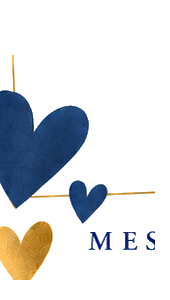
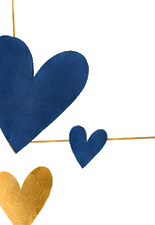
Add files via upload

diff --git a/koephoto-preview-v37.html b/koephoto-preview-v37.html
@@ -1,0 +1,87 @@
+<!doctype html>
+<html lang="ja"><head><meta charset="utf-8"><meta name="viewport" content="width=device-width,initial-scale=1">
+<title>コエフォト｜Classic Birthday プレビュー v37</title>
+<style>
+*{box-sizing:border-box}body{margin:0;background:#f5f1ea;color:#4e4339;font-family:-apple-system,BlinkMacSystemFont,"Hiragino Sans","Yu Gothic",sans-serif}
+.wrap{max-width:760px;margin:auto;padding:18px 14px 60px}.top{text-align:center}.top h1{font-size:21px;margin:7px}.top p{font-size:12px;color:#827568}
+.badge{display:inline-block;background:#eee4d6;padding:4px 8px;border-radius:999px;font-size:10px}
+.tabs{display:grid;grid-template-columns:1fr 1fr;gap:8px;margin:18px 0}.tabs button{padding:12px;border:1px solid #cbb79c;background:#fffaf2;border-radius:12px;color:#655648;font-weight:700}.tabs button.on{background:#9f8064;color:white}
+.pane{display:none}.pane.on{display:block}.caption{text-align:center;font-size:12px;color:#817466;margin:8px 0 12px}
+.voiceFrameWrap{background:#0b1f3a;border-radius:16px;overflow:hidden}
+iframe{display:block;width:100%;height:980px;border:0;background:#091a33}
+.canvasWrap{background:#e9e4db;border-radius:16px;padding:10px;overflow:auto}canvas{display:block;width:100%;height:auto;max-width:600px;margin:auto;background:white}
+.actions{display:grid;grid-template-columns:1fr 1fr;gap:9px;margin-top:18px}.actions button{padding:14px;border-radius:13px;border:1px solid #bca68d;background:#fffaf2;color:#655648;font-weight:700}.actions .buy{background:#9f8064;color:#fff;border:0}.price{text-align:center;font-size:12px;color:#817466;margin-top:10px}
+@media(max-width:480px){iframe{height:860px}}
+</style></head><body><main class="wrap">
+<div class="top"><span class="badge">Classic Birthday</span><h1>2つのプレビューを確認</h1><p>ボイスページとメッセージカードは同じ入力内容から作成されます。</p></div>
+<div class="tabs"><button id="tv" class="on">ボイスページ</button><button id="tm">メッセージカード</button></div>
+<section id="pv" class="pane on"><div class="caption">受け取った人がスマホで見るページ</div><div class="voiceFrameWrap"><iframe src="classic-birthday-voice-v13-preview.html" title="Classic Birthday ボイスページ"></iframe></div></section>
+<section id="pm" class="pane"><div class="caption">写真・メッセージ・QRを載せて贈るカード（プレビューではQR枠のみ）</div><div class="canvasWrap"><canvas id="card" width="1060" height="1484"></canvas></div></section>
+<div class="actions"><button onclick="history.back()">入力を修正</button><button class="buy" onclick="alert('決済は次の実装段階です。完成版は480円（税込）です。')">完成版へ　480円</button></div>
+<div class="price">閲覧・ダウンロード期限：購入日から1年間</div>
+</main>
+<script>
+const $=id=>document.getElementById(id);
+$('tv').onclick=()=>{$('tv').classList.add('on');$('tm').classList.remove('on');$('pv').classList.add('on');$('pm').classList.remove('on')};
+$('tm').onclick=()=>{$('tm').classList.add('on');$('tv').classList.remove('on');$('pm').classList.add('on');$('pv').classList.remove('on')};
+function db(){return new Promise((ok,ng)=>{const r=indexedDB.open('koephoto-preview',2);r.onsuccess=()=>ok(r.result);r.onerror=()=>ng(r.error)})}
+async function get(k){const x=await db();const v=await new Promise((ok,ng)=>{const t=x.transaction('draft');const r=t.objectStore('draft').get(k);r.onsuccess=()=>ok(r.result);r.onerror=()=>ng(r.error)});x.close();return v}
+function wrap(ctx,text,maxWidth){let lines=[],cur='';for(const ch of text){if(ctx.measureText(cur+ch).width<=maxWidth)cur+=ch;else{lines.push(cur);cur=ch}}if(cur)lines.push(cur);return lines}
+(async()=>{
+ const draft=JSON.parse(sessionStorage.getItem('koephoto-draft')||'{}');if(!draft.message){alert('作成データがありません。作成画面に戻ります。');location.href='koephoto-create-v37.html';return}
+ const photo=await get('photo');const pu=URL.createObjectURL(photo);
+ const c=$('card'),ctx=c.getContext('2d');const base=new Image();base.src='classic-birthday-message.png';await base.decode();ctx.drawImage(base,0,0,c.width,c.height);
+ const img=new Image();img.src=pu;await img.decode();
+ // Classic Birthdayの実際の写真枠は長方形ではなく、わずかに傾いた四角形。
+ // 枠の内側4点にクリップして写真を配置する（生成AIなし・座標固定）。
+ // 写真はClassic Birthdayの実際の傾いた写真枠いっぱいに配置する。
+ // その後、固定テンプレートのリボン/花束/ハートだけを透明PNGで最前面に戻す。
+ const p1={x:39,y:283}, p2={x:998,y:249}, p3={x:1021,y:882}, p4={x:61,y:916};
+ const minX=Math.min(p1.x,p2.x,p3.x,p4.x), maxX=Math.max(p1.x,p2.x,p3.x,p4.x);
+ const minY=Math.min(p1.y,p2.y,p3.y,p4.y), maxY=Math.max(p1.y,p2.y,p3.y,p4.y);
+ const fw=maxX-minX, fh=maxY-minY, ir=img.width/img.height, fr=fw/fh;
+ let sx=0,sy=0,sw=img.width,sh=img.height;
+ if(ir>fr){sw=img.height*fr;sx=(img.width-sw)/2}else{sh=img.width/fr;sy=(img.height-sh)/2}
+ ctx.save();
+ ctx.beginPath();ctx.moveTo(p1.x,p1.y);ctx.lineTo(p2.x,p2.y);ctx.lineTo(p3.x,p3.y);ctx.lineTo(p4.x,p4.y);ctx.closePath();ctx.clip();
+ ctx.drawImage(img,sx,sy,sw,sh,minX,minY,fw,fh);
+ ctx.restore();
+ const decor=new Image();decor.src='classic-birthday-decor-overlay.png';await decor.decode();ctx.drawImage(decor,0,0,c.width,c.height);
+ ctx.fillStyle='#2b3c50';ctx.textBaseline='alphabetic';
+ const recipientText=draft.recipient;
+ const rn=recipientText.length;
+ let recipientSize = rn<=5 ? 36 : rn<=8 ? 33 : rn<=12 ? 29 : rn<=16 ? 25 : 22;
+ ctx.font='300 '+recipientSize+'px "Hiragino Sans","Yu Gothic",sans-serif';
+ while(recipientSize>20 && ctx.measureText(recipientText).width>485){
+   recipientSize--;
+   ctx.font='300 '+recipientSize+'px "Hiragino Sans","Yu Gothic",sans-serif';
+ }
+ ctx.fillText(recipientText,102,1040);
+ const rules=[1094,1144,1193,1243],maxw=485;
+ // 文字数に応じて初期フォントサイズを自動調整。短文ほど大きく、長文ほど小さく。
+ const n=draft.message.length;
+ let size = n<=25 ? 26 : n<=45 ? 24 : n<=65 ? 22 : n<=82 ? 20 : 18;
+ let lines=[];
+ while(size>=16){
+   ctx.font='300 '+size+'px "Hiragino Sans","Yu Gothic",sans-serif';
+   lines=wrap(ctx,draft.message,maxw);
+   if(lines.length<=4)break;
+   size--;
+ }
+ // 行数が少ない場合は使用する罫線の上から順に配置
+ lines.slice(0,4).forEach((line,i)=>ctx.fillText(line,102,rules[i]-5));
+ ctx.fillStyle='#9a793f';
+ const senderText=draft.sender;
+ const sn=senderText.length;
+ let senderSize = sn<=6 ? 28 : sn<=10 ? 26 : sn<=12 ? 23 : 21;
+ const senderMaxWidth=330;
+ ctx.font='500 '+senderSize+'px "Hiragino Sans","Yu Gothic",sans-serif';
+ while(senderSize>18 && ctx.measureText(senderText).width>senderMaxWidth){
+   senderSize--;
+   ctx.font='500 '+senderSize+'px "Hiragino Sans","Yu Gothic",sans-serif';
+ }
+ ctx.textAlign='center';
+ ctx.fillText(senderText,(221+562)/2,1307);
+ ctx.textAlign='left';
+})();
+</script></body></html>

diff --git a/koephoto-create-v37.html b/koephoto-create-v37.html
@@ -1,0 +1,59 @@
+<!doctype html>
+<html lang="ja"><head><meta charset="utf-8"><meta name="viewport" content="width=device-width,initial-scale=1">
+<title>コエフォト｜作成テスト v37</title>
+<style>
+*{box-sizing:border-box} :root{--bg:#faf7f2;--ink:#5b4b3f;--muted:#8e8176;--line:#d8c7b5;--accent:#9d7f63}
+body{margin:0;background:var(--bg);color:var(--ink);font-family:-apple-system,BlinkMacSystemFont,"Hiragino Sans","Yu Gothic",sans-serif}
+.wrap{max-width:720px;margin:auto;padding:22px 16px 60px}.brand{font-weight:900;letter-spacing:.08em;font-size:24px}
+.hero{padding:36px 2px 22px;border-bottom:1px solid var(--line)}h1{font-size:34px;line-height:1.35;margin:10px 0}.hero em{font-style:normal;color:var(--accent)}
+.step{display:flex;gap:12px;padding:20px 0;border-bottom:1px solid #e3d7ca}.n{flex:none;width:30px;height:30px;border-radius:50%;display:grid;place-items:center;background:#b28f6e;color:#fff;font-size:12px;font-weight:800}.content{width:100%}.content b{display:block;margin-bottom:6px}.field-help{font-size:12px;color:var(--muted);margin:0 0 9px;line-height:1.5}
+input,textarea{width:100%;padding:13px 14px;border:1px solid #c7b5a4;border-radius:12px;background:#fffdf9;font:inherit;color:var(--ink)}textarea{min-height:105px;resize:vertical}.count{text-align:right;font-size:11px;color:var(--muted);margin-top:5px}
+.upload{display:block;padding:14px;text-align:center;border:1.5px solid #bda58d;background:#fffdf9;border-radius:13px}.upload input{display:none}
+#photoPreview{display:none;width:100%;margin-top:10px;border-radius:12px;max-height:320px;object-fit:cover}audio{display:none;width:100%;margin-top:10px}
+.consent{display:flex;gap:9px;font-size:12px;line-height:1.65;margin:20px 0;padding:13px;background:#f3ede5;border-radius:14px}.consent input{width:auto}
+button{width:100%;padding:16px;border:0;border-radius:14px;background:#9f8064;color:#fff;font-size:16px;font-weight:800}button:disabled{opacity:.4}.note{text-align:center;font-size:11px;color:var(--muted);margin-top:10px}
+.flow{text-align:center;font-size:11px;color:var(--muted);margin-bottom:12px}
+</style></head><body><main class="wrap">
+<div class="flow">1 作成　→　2 プレビュー　→　3 発行</div>
+<div class="brand">コエフォト</div>
+<section class="hero"><small>PHOTO × VOICE</small><h1>写真に、<em>声をのせて</em><br>贈ろう。</h1><p>カードを無料で作成・プレビューできます。</p></section>
+<form id="form">
+<div class="step"><div class="n">1</div><div class="content"><b>贈る相手の名前</b><div class="field-help">メッセージカードに表示されます</div><input id="recipient" maxlength="20" required placeholder="例：おばあちゃん"><div class="count"><span id="rc">0</span> / 20文字</div></div></div>
+<div class="step"><div class="n">2</div><div class="content"><b>メッセージ</b><textarea id="message" maxlength="100" required placeholder="例：いつもありがとう。これからも元気でいてね！"></textarea><div class="count"><span id="mc">0</span> / 100文字</div></div></div>
+<div class="step"><div class="n">3</div><div class="content"><b>送り主の名前</b><input id="sender" maxlength="15" required placeholder="例：さくら"><div class="count"><span id="sc">0</span> / 15文字</div></div></div>
+<div class="step"><div class="n">4</div><div class="content"><b>写真を選ぶ</b><label class="upload">＋ 写真を選ぶ<input id="photo" type="file" accept="image/*" required></label><img id="photoPreview"></div></div>
+<div class="step"><div class="n">5</div><div class="content"><b>声をのせる</b><label class="upload">♬ 音声を選ぶ<input id="audio" type="file" required></label><audio id="audioPreview" controls></audio></div></div>
+<label class="consent"><input id="consent" type="checkbox" required><span>写真・音声をカードの作成・プレビューのために利用することに同意します。また、使用に必要な許可を得ていることを確認済みです。</span></label>
+<button id="go" type="submit">2つのプレビューを確認</button>
+<div class="note">作成・プレビューは0円。完成版は480円（税込）です。</div>
+</form></main>
+<script>
+const $=id=>document.getElementById(id);
+[['recipient','rc'],['message','mc'],['sender','sc']].forEach(([a,b])=>$(a).addEventListener('input',()=>$(b).textContent=$(a).value.length));
+$('photo').addEventListener('change',()=>{const f=$('photo').files[0];if(f){$('photoPreview').src=URL.createObjectURL(f);$('photoPreview').style.display='block'}});
+$('audio').addEventListener('change',()=>{
+  const f=$('audio').files[0];
+  if(!f)return;
+  const name=(f.name||'').toLowerCase();
+  const type=(f.type||'').toLowerCase();
+  const okExt=/\.(m4a|mp3|aac|mp4|mpeg|wav)$/i.test(name);
+  const okType=type.startsWith('audio/') || type==='video/mp4' || type==='application/octet-stream' || type==='';
+  if(!(okExt||okType)){
+    alert('この音声形式は選択できません。m4a / mp3 / aac / mp4 形式をお使いください。');
+    $('audio').value='';
+    return;
+  }
+  $('audioPreview').src=URL.createObjectURL(f);
+  $('audioPreview').style.display='block';
+});
+function db(){return new Promise((ok,ng)=>{const r=indexedDB.open('koephoto-preview',2);r.onupgradeneeded=()=>{if(!r.result.objectStoreNames.contains('draft'))r.result.createObjectStore('draft')};r.onsuccess=()=>ok(r.result);r.onerror=()=>ng(r.error)})}
+async function put(k,v){const x=await db();await new Promise((ok,ng)=>{const t=x.transaction('draft','readwrite');t.objectStore('draft').put(v,k);t.oncomplete=ok;t.onerror=()=>ng(t.error)});x.close()}
+$('form').addEventListener('submit',async e=>{e.preventDefault();if(!e.currentTarget.reportValidity())return;const p=$('photo').files[0],a=$('audio').files[0];if(!p||!a)return;
+const an=(a.name||'').toLowerCase(), at=(a.type||'').toLowerCase();
+if(!(/\.(m4a|mp3|aac|mp4|mpeg|wav)$/i.test(an) || at.startsWith('audio/') || at==='video/mp4' || at==='application/octet-stream' || at==='')){
+  alert('音声は m4a / mp3 / aac / mp4 形式をお使いください。'); return;
+}
+sessionStorage.setItem('koephoto-draft',JSON.stringify({recipient:$('recipient').value.trim(),message:$('message').value.trim(),sender:$('sender').value.trim()}));
+await put('photo',p);await put('audio',a);location.href='koephoto-preview-v37.html';
+});
+</script></body></html>

diff --git a/classic-birthday-voice-v13-preview.html b/classic-birthday-voice-v13-preview.html
@@ -1,0 +1,93 @@
+<!doctype html>
+<html lang="ja"><head>
+<meta charset="utf-8"><meta name="viewport" content="width=device-width,initial-scale=1,viewport-fit=cover">
+<title>Happy Birthday｜コエフォト</title>
+<style>
+:root{--navy:#0b477d;--gold:#bb8e3c;--ivory:#faf6ed}
+*{box-sizing:border-box}
+html,body{margin:0;min-height:100%;font-family:-apple-system,BlinkMacSystemFont,"Hiragino Sans","Yu Gothic",sans-serif;background:#f5efe6}
+.web{min-height:100svh;padding:14px 8px 26px}
+.card{position:relative;width:min(600px,100%);aspect-ratio:2/3;margin:auto;overflow:hidden;background:var(--ivory);box-shadow:0 12px 32px #5b493329}
+.bg{position:absolute;z-index:1;inset:0;width:100%;height:100%;display:block;pointer-events:none}
+
+/* Photo is clipped to the inner gold quadrilateral, then rotated to match the frame angle. */
+.photo{
+ position:absolute;z-index:2;
+ left:7.35%;top:21.65%;width:87.2%;height:36.3%;
+ overflow:hidden;
+ clip-path:polygon(1.7% 5.8%,97.3% 2.3%,99.0% 94.0%,3.1% 97.2%);
+ background:#eee7dc
+}
+.photo img{
+ position:absolute;left:50%;top:50%;
+ width:104%;height:104%;
+ object-fit:cover;object-position:50% 50%;
+ transform:translate(-50%,-50%) rotate(-1.22deg) scale(1.015);
+ transform-origin:center center;
+ display:block
+}
+
+/* メッセージカードと同じ左下ハート。写真より前面に配置。 */
+.hearts{
+ position:absolute;z-index:6;
+ left:3.25%;top:50.0%;width:14.7%;
+ height:auto;display:block;pointer-events:none
+}
+
+/* Exact SAME artwork and relative position as the message card. */
+.flower{
+ position:absolute;z-index:7;
+ left:74.2%;top:16.1%;width:22.2%;
+ height:auto;display:block;pointer-events:none
+}
+
+.play{
+ position:absolute;z-index:8;left:10.8%;top:65.15%;width:12.8%;aspect-ratio:1;
+ border:0;border-radius:50%;background:var(--navy);
+ display:grid;place-items:center;padding:0;cursor:pointer;-webkit-tap-highlight-color:transparent
+}
+.playIcon{width:0;height:0;margin-left:6%;border-top:.95em solid transparent;border-bottom:.95em solid transparent;border-left:1.35em solid #fff}
+.play.playing .playIcon{width:1.15em;height:1.55em;margin-left:0;border:0;background:linear-gradient(to right,#fff 0 34%,transparent 34% 66%,#fff 66% 100%)}
+.track{position:absolute;z-index:9;left:29.45%;top:68.08%;width:38.35%;height:3px;border-radius:99px;overflow:hidden}
+.fill{width:0;height:100%;background:var(--navy)}
+.time{position:absolute;z-index:9;left:70.1%;top:66.30%;width:15.2%;height:4%;display:flex;align-items:center;justify-content:center;background:#fbf8f0;color:#8290a4;font-size:clamp(8px,2.1vw,14px);font-variant-numeric:tabular-nums}
+
+/* Gold underline in the fixed design is at y≈1242px. */
+.sender{
+ position:absolute;z-index:9;left:30.9%;top:78.75%;width:46.6%;height:1.9%;
+ display:flex;align-items:flex-end;justify-content:center;padding:0 2% 0;
+ color:#9a763b;font-size:clamp(12px,3.3vw,22px);font-weight:500;line-height:1;
+ white-space:nowrap;overflow:hidden
+}
+audio{display:none}
+.brand{width:min(600px,100%);margin:0 auto;text-align:center;padding:17px 8px 0}
+.brandname{font-size:15px;font-weight:700;letter-spacing:.08em;color:#173f69}
+.tag{margin-top:6px;font:10px Georgia,"Times New Roman",serif;letter-spacing:.18em;color:#9a8c79}
+@media(max-width:420px){.web{padding:8px 6px 22px}.brand{padding-top:14px}.brandname{font-size:14px}.tag{font-size:9px;letter-spacing:.13em}}
+</style></head><body>
+<main class="web">
+<section class="card">
+ <img class="bg" src="classic-birthday-voice-v10-bg.png" alt="">
+ <div class="photo"><img id="photo" alt=""></div>
+ <img class="hearts" src="classic-birthday-hearts-exact.png" alt="">
+ <img class="flower" src="classic-birthday-flower-exact.png" alt="">
+ <button class="play" id="play" type="button" aria-label="音声を再生"><span class="playIcon"></span></button>
+ <div class="track"><div class="fill" id="fill"></div></div>
+ <div class="time" id="time">0:00 / --:--</div>
+ <div class="sender" id="sender"></div>
+ <audio id="audio" preload="metadata"></audio>
+</section>
+<footer class="brand"><div class="brandname">コエフォト</div><div class="tag">A PHOTO, A VOICE, A MEMORY.</div></footer>
+</main>
+<script>
+function openDB(){return new Promise((ok,ng)=>{const r=indexedDB.open("koephoto-preview",2);r.onsuccess=()=>ok(r.result);r.onerror=()=>ng(r.error)})}
+async function getBlob(k){const x=await openDB();const v=await new Promise((ok,ng)=>{const t=x.transaction("draft");const r=t.objectStore("draft").get(k);r.onsuccess=()=>ok(r.result);r.onerror=()=>ng(r.error)});x.close();return v}
+function fmt(s){if(!Number.isFinite(s))return"--:--";s=Math.max(0,Math.floor(s));return Math.floor(s/60)+":"+String(s%60).padStart(2,"0")}
+(async()=>{const d=JSON.parse(sessionStorage.getItem("koephoto-draft")||"{}");sender.textContent=d.sender||"";const p=await getBlob("photo"),a=await getBlob("audio");if(p)photo.src=URL.createObjectURL(p);if(a)audio.src=URL.createObjectURL(a)})();
+const audio=document.getElementById("audio"),play=document.getElementById("play"),fill=document.getElementById("fill"),time=document.getElementById("time");
+function upd(){time.textContent=fmt(audio.currentTime)+" / "+fmt(audio.duration);fill.style.width=(audio.duration?audio.currentTime/audio.duration*100:0)+"%"}
+play.onclick=async()=>{if(audio.paused){try{await audio.play()}catch(e){console.error(e)}}else audio.pause()};
+audio.onplay=()=>{play.classList.add("playing");play.ariaLabel="音声を一時停止"};
+audio.onpause=()=>{play.classList.remove("playing");play.ariaLabel="音声を再生"};
+audio.onloadedmetadata=upd;audio.ondurationchange=upd;audio.ontimeupdate=upd;audio.onended=()=>{audio.currentTime=0;upd()};
+</script></body></html>
